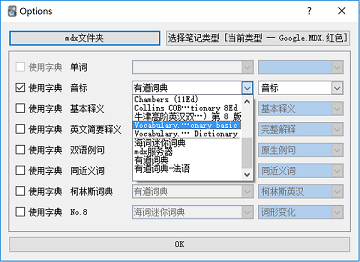
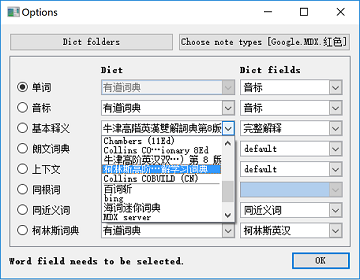
update readme and screenshots

diff --git a/README.md b/README.md
@@ -10,30 +10,34 @@
 ## 主要功能
 
 1. 快速零散制卡      
-    在添加卡片和编辑卡片界面，输入单词，通过快捷键、按钮或右键菜单可直接获取详细释义，并自动填充各字段，实现快速制卡。   
+在添加卡片和编辑卡片界面，输入单词，通过快捷键、按钮或右键菜单可直接获取详细释义，并自动填充各字段，实现快速制卡。 
+
 2. 批量制卡  
-    浏览器界面中，选择多个单词，通过快捷键、按钮或右键菜单可直接获取详细释义，并自动填充各字段，实现批量快速制卡。 
-3. 本地词典支持
-    - mdx格式
-    - stardict字典: idx和idx.gz格式
-4. 网络词典支持
-    词典可自定义扩展，目前内置有道、海词、百词斩等网络词典。
-    所有字典以插件服务形式实现，用户可自己编写适合自己需求的插件。插件实现方式可参考。
+浏览器界面中，选择多个单词，通过快捷键、按钮或右键菜单可直接获取详细释义，并自动填充各字段，实现批量快速制卡。 
+
+3. 本地词典支持  
+   - mdx格式
+   - stardict字典: idx和idx.gz格式
+
+4. 网络词典支持  
+词典可自定义扩展，目前内置有道、海词、百词斩等网络词典。  
+所有字典以插件服务形式实现，用户可自己编写适合自己需求的插件。插件实现方式可参考。
   
 ## 使用参考
 
-1. “工具”菜单-->"Word Query"，弹出设置界面
-    - 点击“选择笔记类型”按钮，设定笔记模板；
-    - 点击“mdx文件夹按钮”，弹出mdx设定界面，增加mdx字典文件夹，支持递归查找。
+1. “工具”菜单-->"Word Query"，弹出设置界面   
+    - 点击“选择笔记类型”按钮，设定笔记模板；   
+    - 点击“mdx文件夹按钮”，弹出mdx设定界面，增加mdx字典文件夹，支持递归查找。
+
     ![](screenshots/add_dict_folders.png)
     
-2. 选择笔记类型，设置待查询的单词字段和待填充的字典字段
+2. 选择笔记类型，设置待查询的单词字段和待填充的字典字段   
 
     ![](screenshots/note_type.png)
 
     ![](screenshots/dicts.png)
     
-3.  插件对Anki界面的修改，可在多种编辑模式下快速查询并添加单词释义。
+3.  插件对Anki界面的修改，可在多种编辑模式下快速查询并添加单词释义。   
     - “添加笔记”界面增加了“Query”按钮；
     - 在主界面和浏览界面增加了工具栏菜单“WoryQuery”；
     - 在编辑器右键菜单中增加了“Query”菜单项和“Query Current”菜单项。
@@ -63,9 +67,6 @@
 
 具体可参考有道词典和海词实现方式。    
 
-## 已知问题
-
-1. 编辑器中第一次查询有时候取不到数据；有时获取的查询单词为空。
 
 ## 参考
 - mdx 解析：  [mmjang](https://github.com/mmjang/mdict-query)
